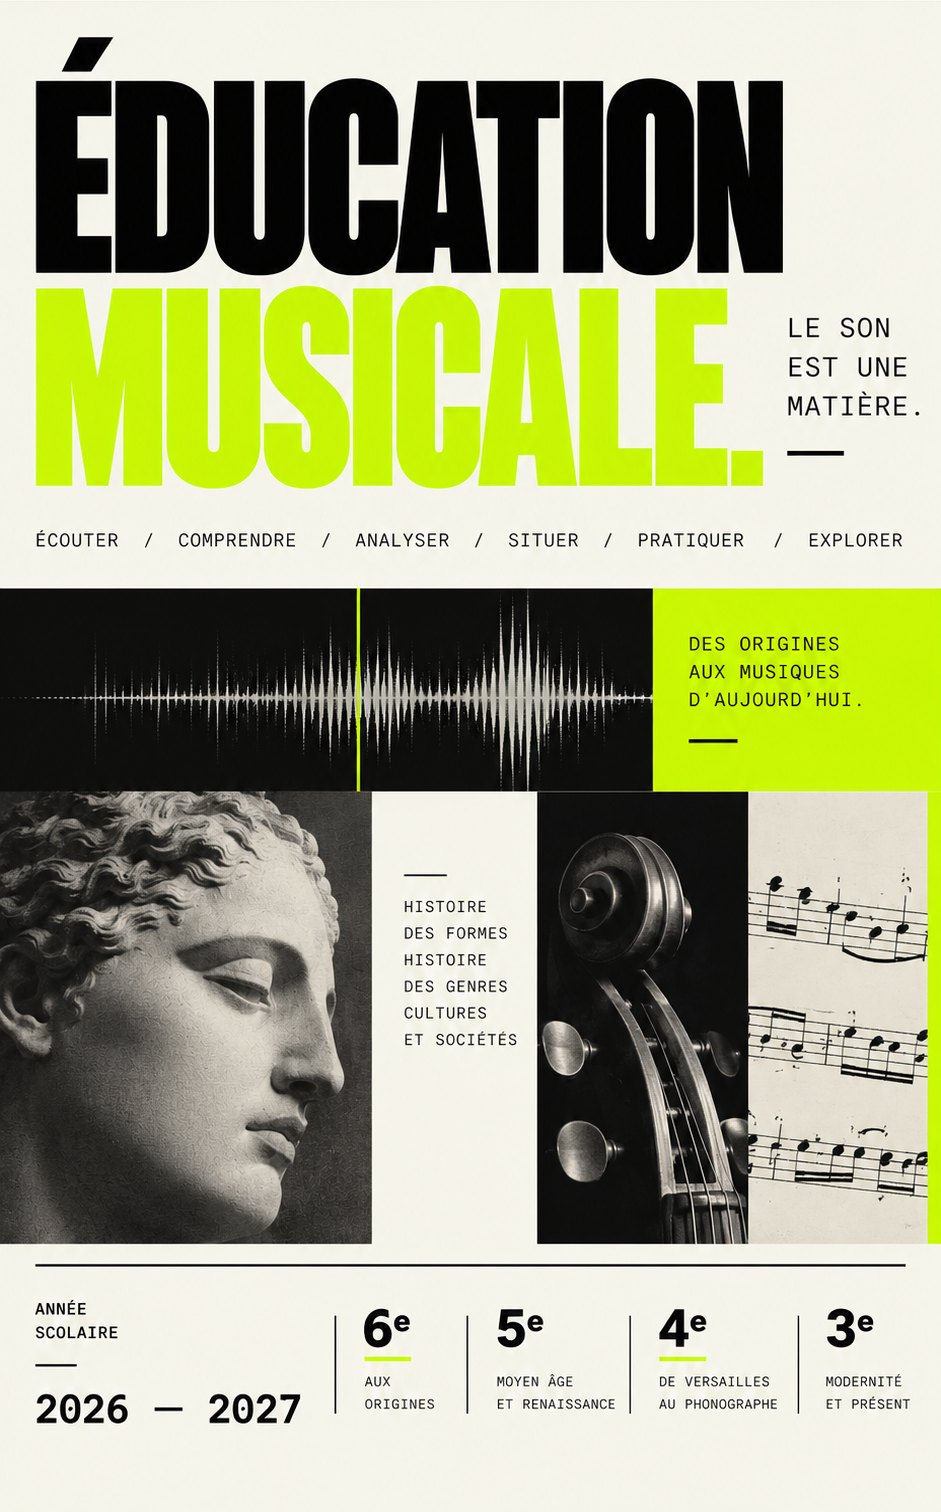
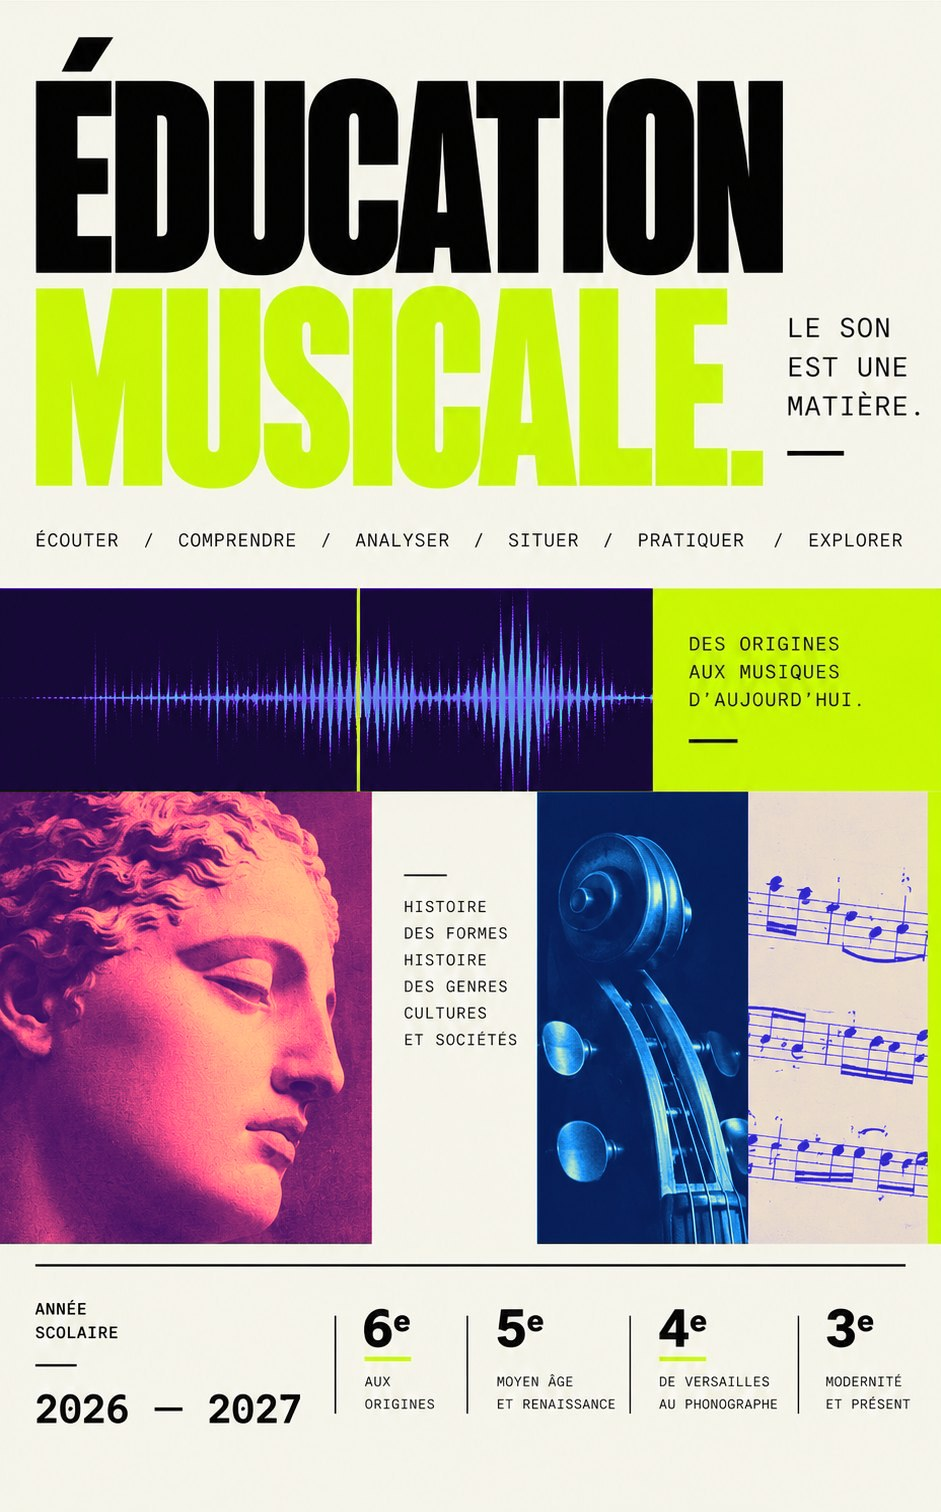
Images en couleur : vignettes wiki sans filtre gris, image d'accueil coloriee
Claude-Session: https://claude.ai/code/session_01S74kJbM9vR7j3xDGpzmpYc

Changed region(s): [[0.0, 0.373, 0.9862, 0.8393]]

diff --git a/eleves/index.html b/eleves/index.html
@@ -712,7 +712,7 @@ html.signal .chip[aria-pressed="true"], html.signal .chip[aria-selected="true"] 
 html.signal .play, html.signal .listen .play { background: var(--noir); color: var(--acide); border-radius: 0; }
 html.signal .lvlbadge { background: var(--noir) !important; color: var(--acide); border-radius: 0; font-family: var(--f-display); font-weight: 400; letter-spacing: -.03em; }
 html.signal .ico, html.signal .ico.vign { border-radius: 0; }
-html.signal .ico.vign.pleine, html.signal .age-img.pleine, html.signal .gimg img { filter: grayscale(1) contrast(1.12); }
+html.signal .ico.vign.pleine, html.signal .age-img.pleine, html.signal .gimg img { filter: saturate(1.12) contrast(1.04); }
 html.signal .levels a { border-radius: 0; border: 2px solid var(--noir); background: transparent; font: 400 1.25rem/1 var(--f-display); color: var(--noir); }
 html.signal .levels a[aria-current="page"] { background: var(--noir); color: var(--acide); }
 html.signal .sous-onglets a { border-radius: 0; border: 2px solid var(--noir); background: transparent; font: 500 12px var(--f-mono); text-transform: uppercase; letter-spacing: .05em; }
@@ -950,7 +950,7 @@ html.signal .hs-tete { position: absolute; top: 0; bottom: 22px; left: 62%; widt
 html.signal .hs-temps { position: absolute; left: 0; right: 0; bottom: 0; display: flex; justify-content: space-between; font: 400 11px var(--f-mono); letter-spacing: .08em; color: #BEBDB4; }
 /* Collage : trois images documentaires en noir et blanc, et trois aplats (vert, papier, rouge). */
 html.signal .hs-collage { position: relative; display: grid; grid-template-columns: 1.15fr 1fr; grid-template-rows: 1fr 1fr; gap: 0; height: clamp(240px, 70vw, 560px); margin-top: 8px; }
-html.signal .hs-img { position: relative; display: block; background: #2A2A26 center / cover no-repeat; filter: grayscale(1) contrast(1.15); }
+html.signal .hs-img { position: relative; display: block; background: #2A2A26 center / cover no-repeat; filter: saturate(1.12) contrast(1.04); }
 html.signal .hs-img em { position: absolute; left: 10px; bottom: 8px; font: 400 10.5px var(--f-mono); text-transform: uppercase; letter-spacing: .08em; color: #BEBDB4; font-style: normal; }
 html.signal .hs-img.pleine em { display: none; }
 html.signal .hs-img1 { grid-row: 1 / 3; margin-top: 12%; } html.signal .hs-img2 { grid-column: 2; } html.signal .hs-img3 { grid-column: 2; background-color: #DAD8CE; }
@@ -1093,7 +1093,7 @@ html.signal .car-titre { font-family: "Archivo Variable", var(--f-titre); font-w
 html.signal .car-titre span { display: block; } html.signal .car-titre .l2 { color: var(--acide); }
 html.signal .car-sous { margin: 0; font: 400 clamp(.82rem, 1.5vw, 1rem)/1.6 var(--f-mono); letter-spacing: .1em; text-transform: uppercase; color: #D3D2CA; max-width: 34rem; }
 html.signal .car-collage { position: relative; display: grid; grid-template-columns: 1fr 1fr; gap: 6px; align-self: stretch; }
-html.signal .car-img { display: block; width: 100%; background-image: url("images/accueil.jpg"); background-repeat: no-repeat; background-color: #1b1b18; filter: grayscale(1) contrast(1.08); }
+html.signal .car-img { display: block; width: 100%; background-image: url("images/accueil.jpg"); background-repeat: no-repeat; background-color: #1b1b18; filter: saturate(1.12) contrast(1.04); }
 html.signal .car-img:first-child { grid-column: 1 / -1; }
 html.signal .car-collage { max-height: 360px; overflow: hidden; align-self: start; }
 html.signal .car-bloc-acide, html.signal .car-bloc-rouge { position: absolute; display: block; }

diff --git a/index.html b/index.html
@@ -712,7 +712,7 @@ html.signal .chip[aria-pressed="true"], html.signal .chip[aria-selected="true"] 
 html.signal .play, html.signal .listen .play { background: var(--noir); color: var(--acide); border-radius: 0; }
 html.signal .lvlbadge { background: var(--noir) !important; color: var(--acide); border-radius: 0; font-family: var(--f-display); font-weight: 400; letter-spacing: -.03em; }
 html.signal .ico, html.signal .ico.vign { border-radius: 0; }
-html.signal .ico.vign.pleine, html.signal .age-img.pleine, html.signal .gimg img { filter: grayscale(1) contrast(1.12); }
+html.signal .ico.vign.pleine, html.signal .age-img.pleine, html.signal .gimg img { filter: saturate(1.12) contrast(1.04); }
 html.signal .levels a { border-radius: 0; border: 2px solid var(--noir); background: transparent; font: 400 1.25rem/1 var(--f-display); color: var(--noir); }
 html.signal .levels a[aria-current="page"] { background: var(--noir); color: var(--acide); }
 html.signal .sous-onglets a { border-radius: 0; border: 2px solid var(--noir); background: transparent; font: 500 12px var(--f-mono); text-transform: uppercase; letter-spacing: .05em; }
@@ -950,7 +950,7 @@ html.signal .hs-tete { position: absolute; top: 0; bottom: 22px; left: 62%; widt
 html.signal .hs-temps { position: absolute; left: 0; right: 0; bottom: 0; display: flex; justify-content: space-between; font: 400 11px var(--f-mono); letter-spacing: .08em; color: #BEBDB4; }
 /* Collage : trois images documentaires en noir et blanc, et trois aplats (vert, papier, rouge). */
 html.signal .hs-collage { position: relative; display: grid; grid-template-columns: 1.15fr 1fr; grid-template-rows: 1fr 1fr; gap: 0; height: clamp(240px, 70vw, 560px); margin-top: 8px; }
-html.signal .hs-img { position: relative; display: block; background: #2A2A26 center / cover no-repeat; filter: grayscale(1) contrast(1.15); }
+html.signal .hs-img { position: relative; display: block; background: #2A2A26 center / cover no-repeat; filter: saturate(1.12) contrast(1.04); }
 html.signal .hs-img em { position: absolute; left: 10px; bottom: 8px; font: 400 10.5px var(--f-mono); text-transform: uppercase; letter-spacing: .08em; color: #BEBDB4; font-style: normal; }
 html.signal .hs-img.pleine em { display: none; }
 html.signal .hs-img1 { grid-row: 1 / 3; margin-top: 12%; } html.signal .hs-img2 { grid-column: 2; } html.signal .hs-img3 { grid-column: 2; background-color: #DAD8CE; }
@@ -1093,7 +1093,7 @@ html.signal .car-titre { font-family: "Archivo Variable", var(--f-titre); font-w
 html.signal .car-titre span { display: block; } html.signal .car-titre .l2 { color: var(--acide); }
 html.signal .car-sous { margin: 0; font: 400 clamp(.82rem, 1.5vw, 1rem)/1.6 var(--f-mono); letter-spacing: .1em; text-transform: uppercase; color: #D3D2CA; max-width: 34rem; }
 html.signal .car-collage { position: relative; display: grid; grid-template-columns: 1fr 1fr; gap: 6px; align-self: stretch; }
-html.signal .car-img { display: block; width: 100%; background-image: url("images/accueil.jpg"); background-repeat: no-repeat; background-color: #1b1b18; filter: grayscale(1) contrast(1.08); }
+html.signal .car-img { display: block; width: 100%; background-image: url("images/accueil.jpg"); background-repeat: no-repeat; background-color: #1b1b18; filter: saturate(1.12) contrast(1.04); }
 html.signal .car-img:first-child { grid-column: 1 / -1; }
 html.signal .car-collage { max-height: 360px; overflow: hidden; align-self: start; }
 html.signal .car-bloc-acide, html.signal .car-bloc-rouge { position: absolute; display: block; }

diff --git a/choix.html b/choix.html
@@ -14,7 +14,7 @@ h1 span { display: block; } h1 .a { color: #D6FF00; }
 .sous { margin: 16px 0 0; font: 400 clamp(.9rem, 2.2vw, 1.3rem)/1.4 "Plex Mono Local", ui-monospace, Menlo, monospace; letter-spacing: .2em; text-transform: uppercase; }
 .verbes { list-style: none; margin: 20px 0 0; padding: 12px 0; display: flex; flex-wrap: wrap; gap: 4px 14px; border-top: 2px solid #F0EFE8; border-bottom: 2px solid #F0EFE8; width: fit-content; font: 400 13px/1.55 "Plex Mono Local", ui-monospace, Menlo, monospace; letter-spacing: .1em; text-transform: uppercase; }
 .collage { position: relative; display: grid; grid-template-columns: 1fr 1fr; gap: 6px; align-self: start; max-height: 420px; overflow: hidden; }
-.collage i { display: block; background: url("images/accueil.jpg") no-repeat; filter: grayscale(1) contrast(1.08); background-color: #1b1b18; }
+.collage i { display: block; background: url("images/accueil.jpg") no-repeat; filter: saturate(1.12) contrast(1.04); background-color: #1b1b18; }
 .collage .st { grid-column: 1 / -1; aspect-ratio: 377 / 211; background-size: 443.5% auto; background-position: 100% 68.8%; }
 .collage .ro { aspect-ratio: 254 / 211; background-size: 658.3% auto; background-position: 0 68.8%; }
 .collage .pa { aspect-ratio: 260 / 211; background-size: 643% auto; background-position: 20.6% 68.8%; }

diff --git a/eleves/sw.js b/eleves/sw.js
@@ -1,5 +1,5 @@
 /* Service worker : réseau d'abord pour la page, cache pour l'usage hors ligne */
-const PREFIXE = "eleves-", CACHE = PREFIXE + "61af8ed6";
+const PREFIXE = "eleves-", CACHE = PREFIXE + "8d6976af";
 const CORE = ["index.html", "manifest.json", "icon-180.png", "icon-192.png", "icon-512.png"];
 self.addEventListener("install", e => { e.waitUntil(caches.open(CACHE).then(c => c.addAll(CORE)).then(() => self.skipWaiting())); });
 self.addEventListener("activate", e => { e.waitUntil(caches.keys().then(ks => Promise.all(ks.filter(k => k !== CACHE && k.startsWith(PREFIXE)).map(k => caches.delete(k)))).then(() => self.clients.claim())); });

diff --git a/sw.js b/sw.js
@@ -1,5 +1,5 @@
 /* Service worker : réseau d'abord pour la page, cache pour l'usage hors ligne */
-const PREFIXE = "prof-", CACHE = PREFIXE + "073c1a94";
+const PREFIXE = "prof-", CACHE = PREFIXE + "93491c70";
 const CORE = ["index.html", "manifest.json", "icon-180.png", "icon-192.png", "icon-512.png"];
 self.addEventListener("install", e => { e.waitUntil(caches.open(CACHE).then(c => c.addAll(CORE)).then(() => self.skipWaiting())); });
 self.addEventListener("activate", e => { e.waitUntil(caches.keys().then(ks => Promise.all(ks.filter(k => k !== CACHE && k.startsWith(PREFIXE)).map(k => caches.delete(k)))).then(() => self.clients.claim())); });
